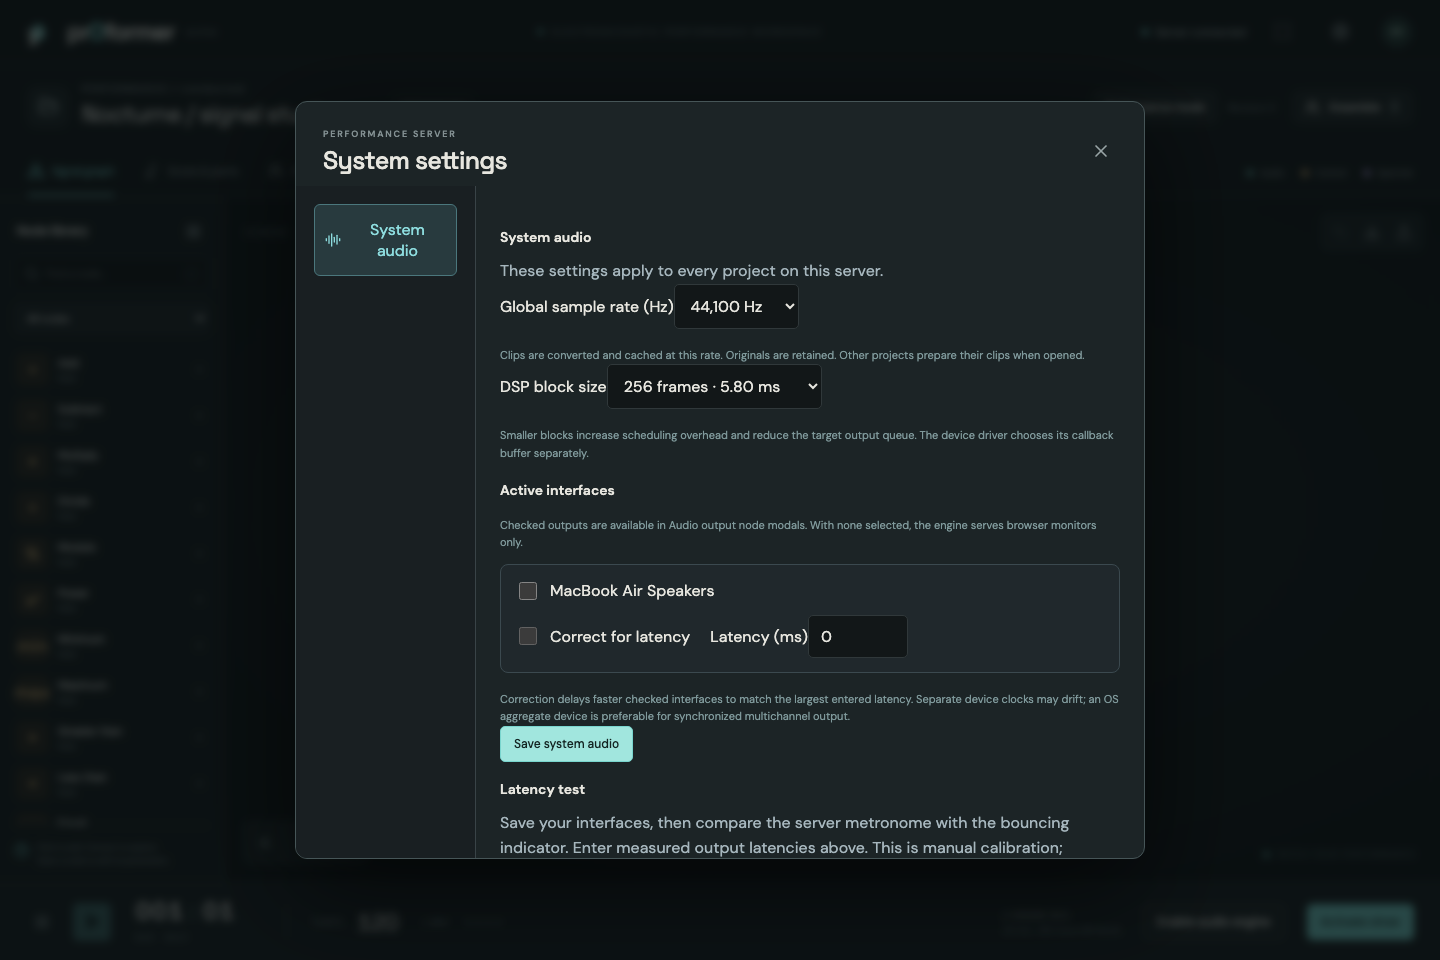
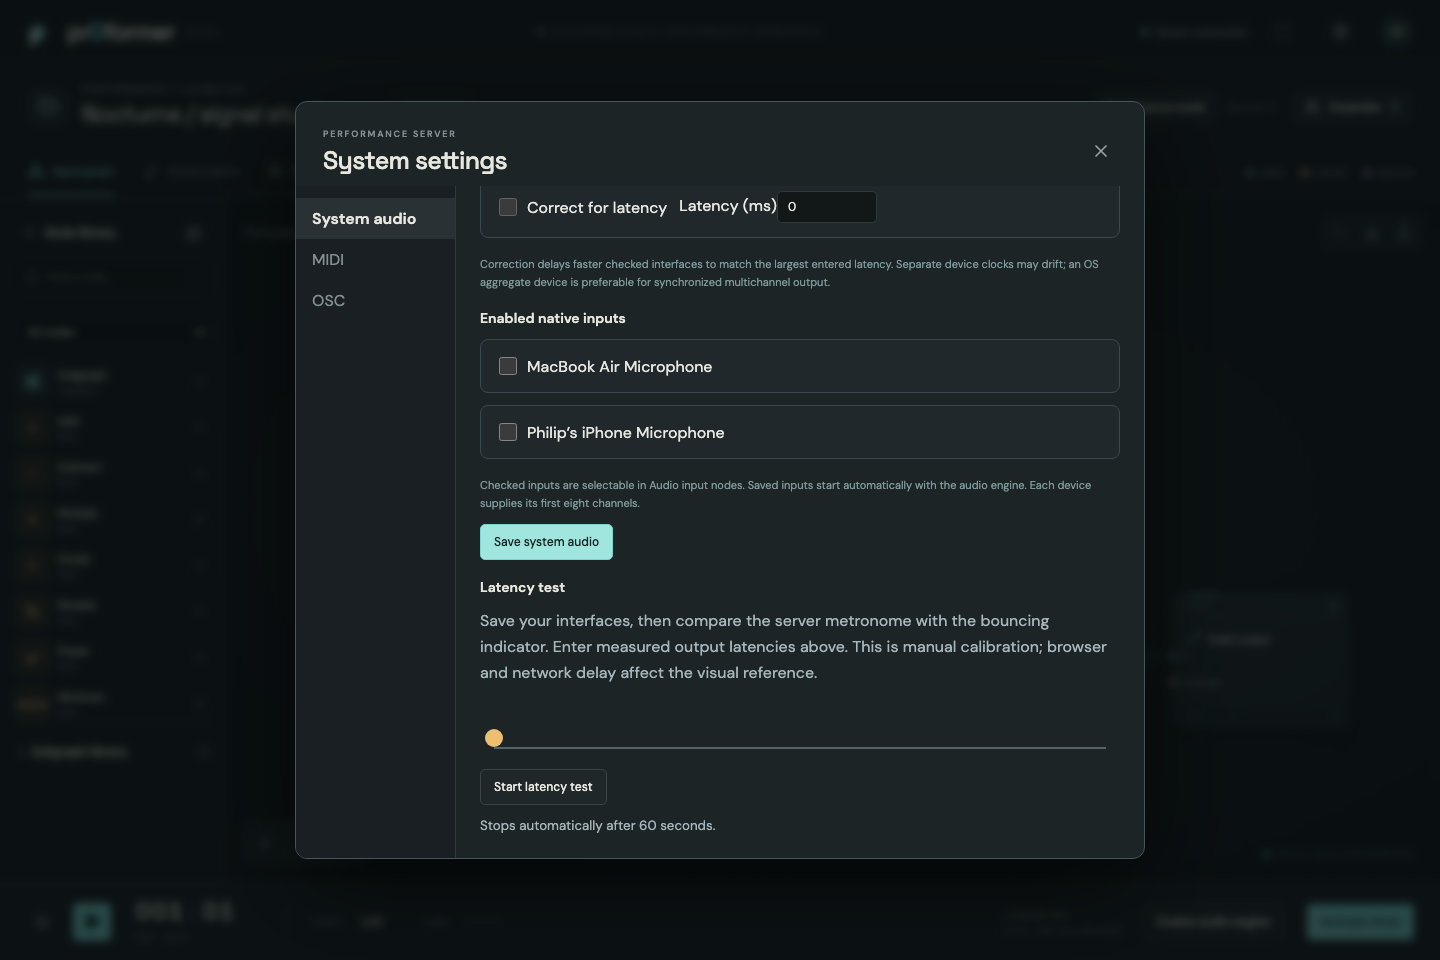
Migrate Lucide Vue package and restore left settings tabs

Changed region(s): [[0.2188, 0.1875, 0.7812, 0.9062], [0.0312, 0.9375, 0.0938, 1.0], [0.4688, 0.1875, 0.5312, 0.2188]]

diff --git a/web/src/style.css b/web/src/style.css
@@ -90,4 +90,5 @@ select{padding-right:26px}textarea{min-height:72px;resize:vertical}label:has(>in
 .node-library-content{flex:0 1 0%;height:0;overflow:hidden;opacity:0;gap:0;visibility:hidden;transition:flex-grow .2s ease,opacity .16s ease,visibility 0s .2s,gap .2s ease}.node-library-content.expanded{flex:1 1 0%;height:auto;opacity:1;gap:10px;visibility:visible;transition:flex-grow .2s ease,opacity .16s ease,visibility 0s,gap .2s ease}.node-library .subgraph-library{flex:0 1 auto;transition:flex-grow .2s ease}.node-library .subgraph-library.expanded{flex:1 1 0%}.subgraph-library-content{flex:0 1 0%;opacity:0;visibility:hidden;transition:flex-grow .2s ease,opacity .16s ease,visibility 0s .2s}.expanded>.subgraph-library-content{flex:1 1 0%;opacity:1;visibility:visible;transition:flex-grow .2s ease,opacity .16s ease,visibility 0s}.library-accordion-title svg{transition:transform .2s ease}
 @media(prefers-reduced-motion:reduce){.node-library-content,.node-library .subgraph-library,.subgraph-library-content,.library-accordion-title svg{transition:none}}
 @media(pointer:coarse){input:not([type=checkbox]):not([type=radio]):not([type=range]),select,.graphical-control input{min-height:40px}.node-library-content>select,.node-library-content>.search-box{flex-basis:40px;height:40px}}
-.settings-layout{grid-template-columns:minmax(0,1fr)}.settings-layout>nav{display:flex;padding:0 24px;background:#191f22;border:0;border-bottom:1px solid var(--line);gap:0}.settings-layout>nav button{flex:1;justify-content:center;min-height:40px;padding:10px 14px;border:0;border-radius:0;background:#191f22;color:var(--muted);font-weight:400}.settings-layout>nav button.active{background:#293135;color:var(--white);font-weight:600}.settings-layout>nav button:focus-visible{outline:1px solid var(--cyan);outline-offset:-3px}
+.settings-layout{grid-template-columns:160px minmax(0,1fr)}.settings-layout>nav{display:flex;flex-direction:column;align-items:stretch;padding:12px 0;background:#191f22;border:0;border-right:1px solid var(--line);gap:0}.settings-layout>nav button{flex:0 0 auto;justify-content:flex-start;min-height:40px;padding:10px 16px;border:0;border-radius:0;background:#191f22;color:var(--muted);font-weight:400}.settings-layout>nav button.active{background:#293135;color:var(--white);font-weight:600}.settings-layout>nav button:focus-visible{outline:1px solid var(--cyan);outline-offset:-3px}
+@media(max-width:700px){.settings-layout{grid-template-columns:110px minmax(0,1fr)}.settings-layout>nav button{padding:10px;min-height:44px}.settings-layout>section{padding:14px}}

diff --git a/web/src/App.vue b/web/src/App.vue
@@ -4,7 +4,7 @@ import { VueFlow, useVueFlow, SelectionMode } from '@vue-flow/core'
 import type { Connection, Node as FlowNode, Edge as FlowEdge } from '@vue-flow/core'
 import { Background } from '@vue-flow/background'
 import { Controls } from '@vue-flow/controls'
-import { Activity, AudioLines, ChevronDown, ChevronRight, Disc3, FolderOpen, Headphones, LayoutGrid, LogOut, Maximize, Music2, Network, Pause, Play, Plus, Radio, Search, Settings, Settings2, Square, Users, X, Download, Upload, Undo2 } from 'lucide-vue-next'
+import { Activity, AudioLines, ChevronDown, ChevronRight, Disc3, FolderOpen, Headphones, LayoutGrid, LogOut, Maximize, Music2, Network, Pause, Play, Plus, Radio, Search, Settings, Settings2, Square, Users, X, Download, Upload, Undo2 } from '@lucide/vue'
 import SubgraphLibrary from './components/SubgraphLibrary.vue'
 import SaveSubgraphDialog from './components/SaveSubgraphDialog.vue'
 import PatchNode from './components/PatchNode.vue'

diff --git a/web/src/components/ScoreEditor.vue b/web/src/components/ScoreEditor.vue
@@ -1,7 +1,7 @@
 <script setup lang="ts">
 import { computed, nextTick, onMounted, ref, watch } from 'vue'
 import { Renderer, Stave, StaveNote, Voice, Formatter, Accidental, Dot, StaveTie } from 'vexflow'
-import { Plus, Trash2 } from 'lucide-vue-next'
+import { Plus, Trash2 } from '@lucide/vue'
 import type { Part, Note } from '../types'
 import { durationGlyphs } from '../notation'
 const props = defineProps<{ part: Part; beat: number; editable: boolean; performance?: boolean; beatsPerBar: number; beatUnit: number }>()

diff --git a/web/src/components/NodeModal.vue b/web/src/components/NodeModal.vue
@@ -1,6 +1,6 @@
 <script setup lang="ts">
 import { computed, nextTick, onBeforeUnmount, onMounted, ref, watch } from 'vue'
-import { X, Link2, ArrowUpRight, Unplug, RotateCcw, Activity } from 'lucide-vue-next'
+import { X, Link2, ArrowUpRight, Unplug, RotateCcw, Activity } from '@lucide/vue'
 import type { Descriptor, GraphNode, GraphEdge, Parameter } from '../types'
 import { finiteInput, formatValue } from '../api'
 import BrowserInputPicker from './BrowserInputPicker.vue'

diff --git a/web/src/components/PatchNode.vue b/web/src/components/PatchNode.vue
@@ -3,7 +3,7 @@ import { computed, inject } from 'vue'
 import type { ShallowRef, ComputedRef } from 'vue'
 import type { NodeProps } from '@vue-flow/core'
 import { Handle, Position } from '@vue-flow/core'
-import { Settings2 } from 'lucide-vue-next'
+import { Settings2 } from '@lucide/vue'
 import type { Descriptor, GraphNode, Telemetry } from '../types'
 import { formatValue } from '../api'
 import GraphControl from './GraphControl.vue'

diff --git a/web/src/components/MonitorPanel.vue b/web/src/components/MonitorPanel.vue
@@ -1,6 +1,6 @@
 <script setup lang="ts">
 import { onBeforeUnmount, ref, watch } from 'vue'
-import { Headphones, Mic, Radio, Square } from 'lucide-vue-next'
+import { Headphones, Mic, Radio, Square } from '@lucide/vue'
 import BrowserInputPicker from './BrowserInputPicker.vue'
 import { browserInputChoices, browserInputBusy, captureError, refreshBrowserInputs } from '../browserInputs'
 import { api } from '../api'

diff --git a/web/src/components/EngineConsole.vue b/web/src/components/EngineConsole.vue
@@ -1,6 +1,6 @@
 <script setup lang="ts">
 import { nextTick, onBeforeUnmount, onMounted, ref } from 'vue'
-import { X, ExternalLink } from 'lucide-vue-next'
+import { X, ExternalLink } from '@lucide/vue'
 import { api } from '../api'
 const props=defineProps<{ projectId:string; standalone?:boolean }>()
 const emit=defineEmits<{close:[]}>()

diff --git a/web/src/components/SystemSettings.vue b/web/src/components/SystemSettings.vue
@@ -1,6 +1,6 @@
 <script setup lang="ts">
 import { onBeforeUnmount, onMounted, ref } from 'vue'
-import { X, AudioLines } from 'lucide-vue-next'
+import { X, AudioLines } from '@lucide/vue'
 import { api } from '../api'
 import TaskProgress from './TaskProgress.vue'
 import ExternalSettings from './ExternalSettings.vue'

diff --git a/web/src/components/ProjectSettings.vue b/web/src/components/ProjectSettings.vue
@@ -1,6 +1,6 @@
 <script setup lang="ts">
 import { onMounted, ref } from 'vue'
-import { X } from 'lucide-vue-next'
+import { X } from '@lucide/vue'
 import { api } from '../api'
 import type { Project } from '../types'
 const props = defineProps<{ project: Project; active: boolean; editable: boolean }>()
